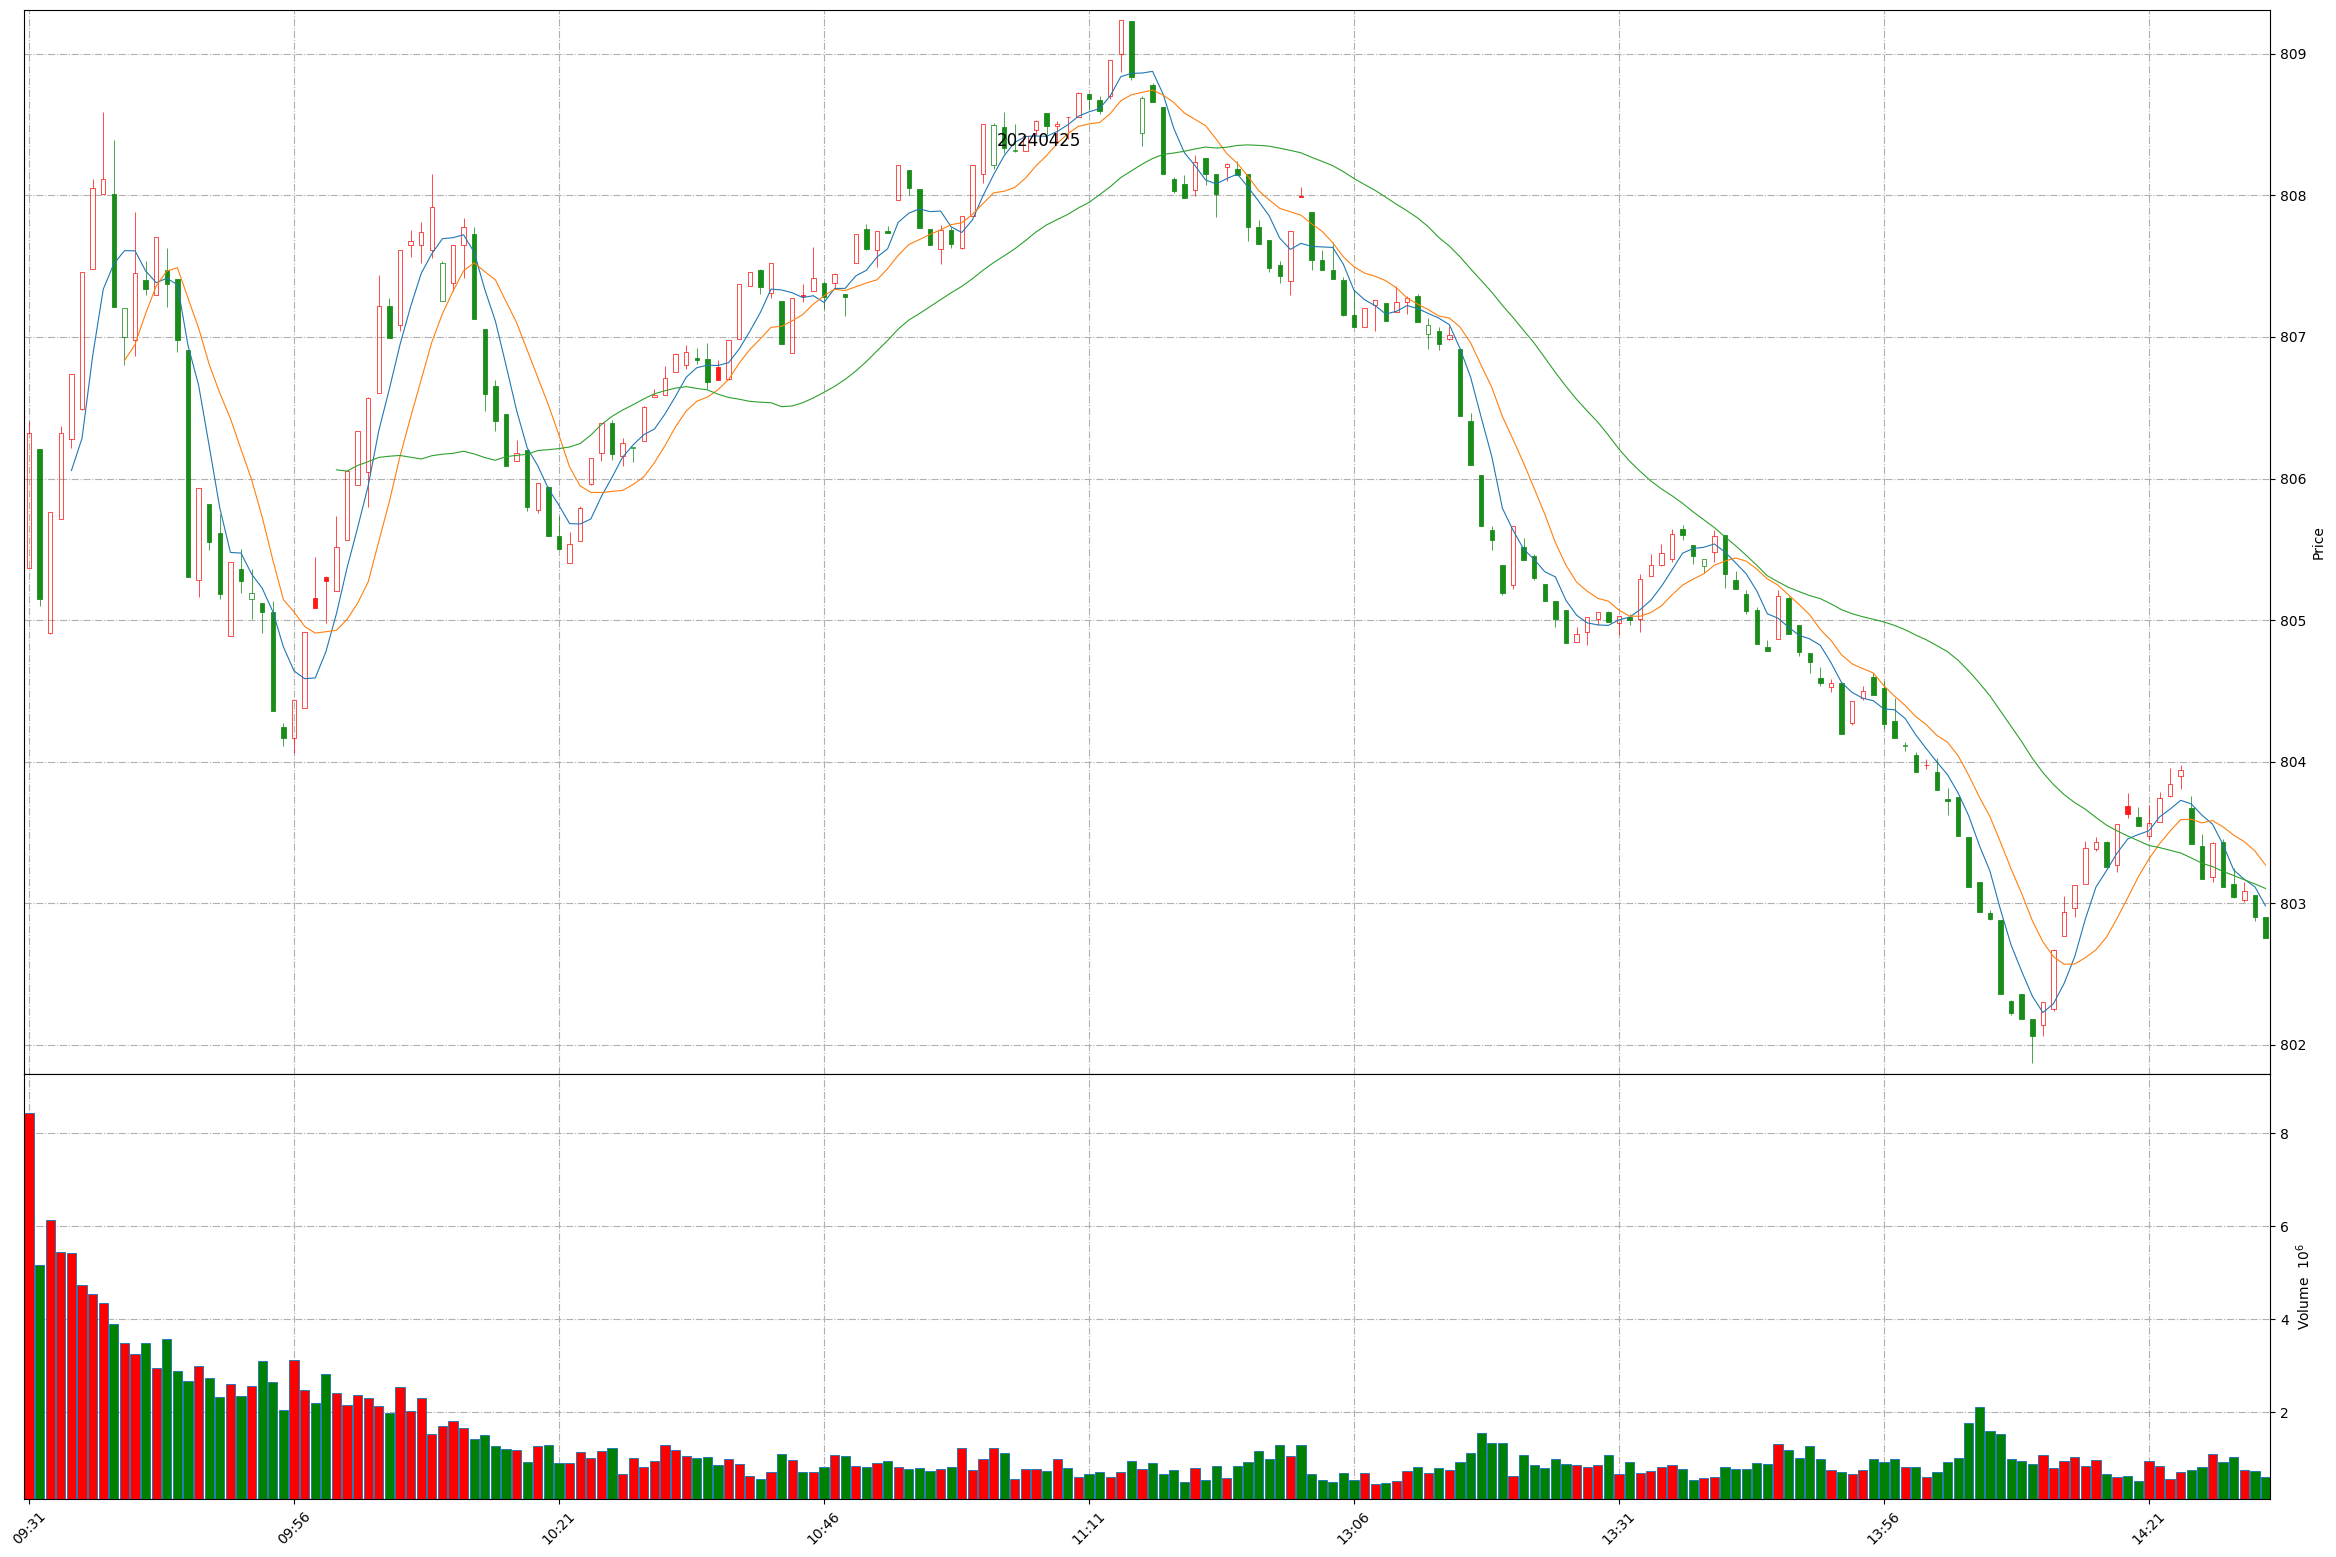
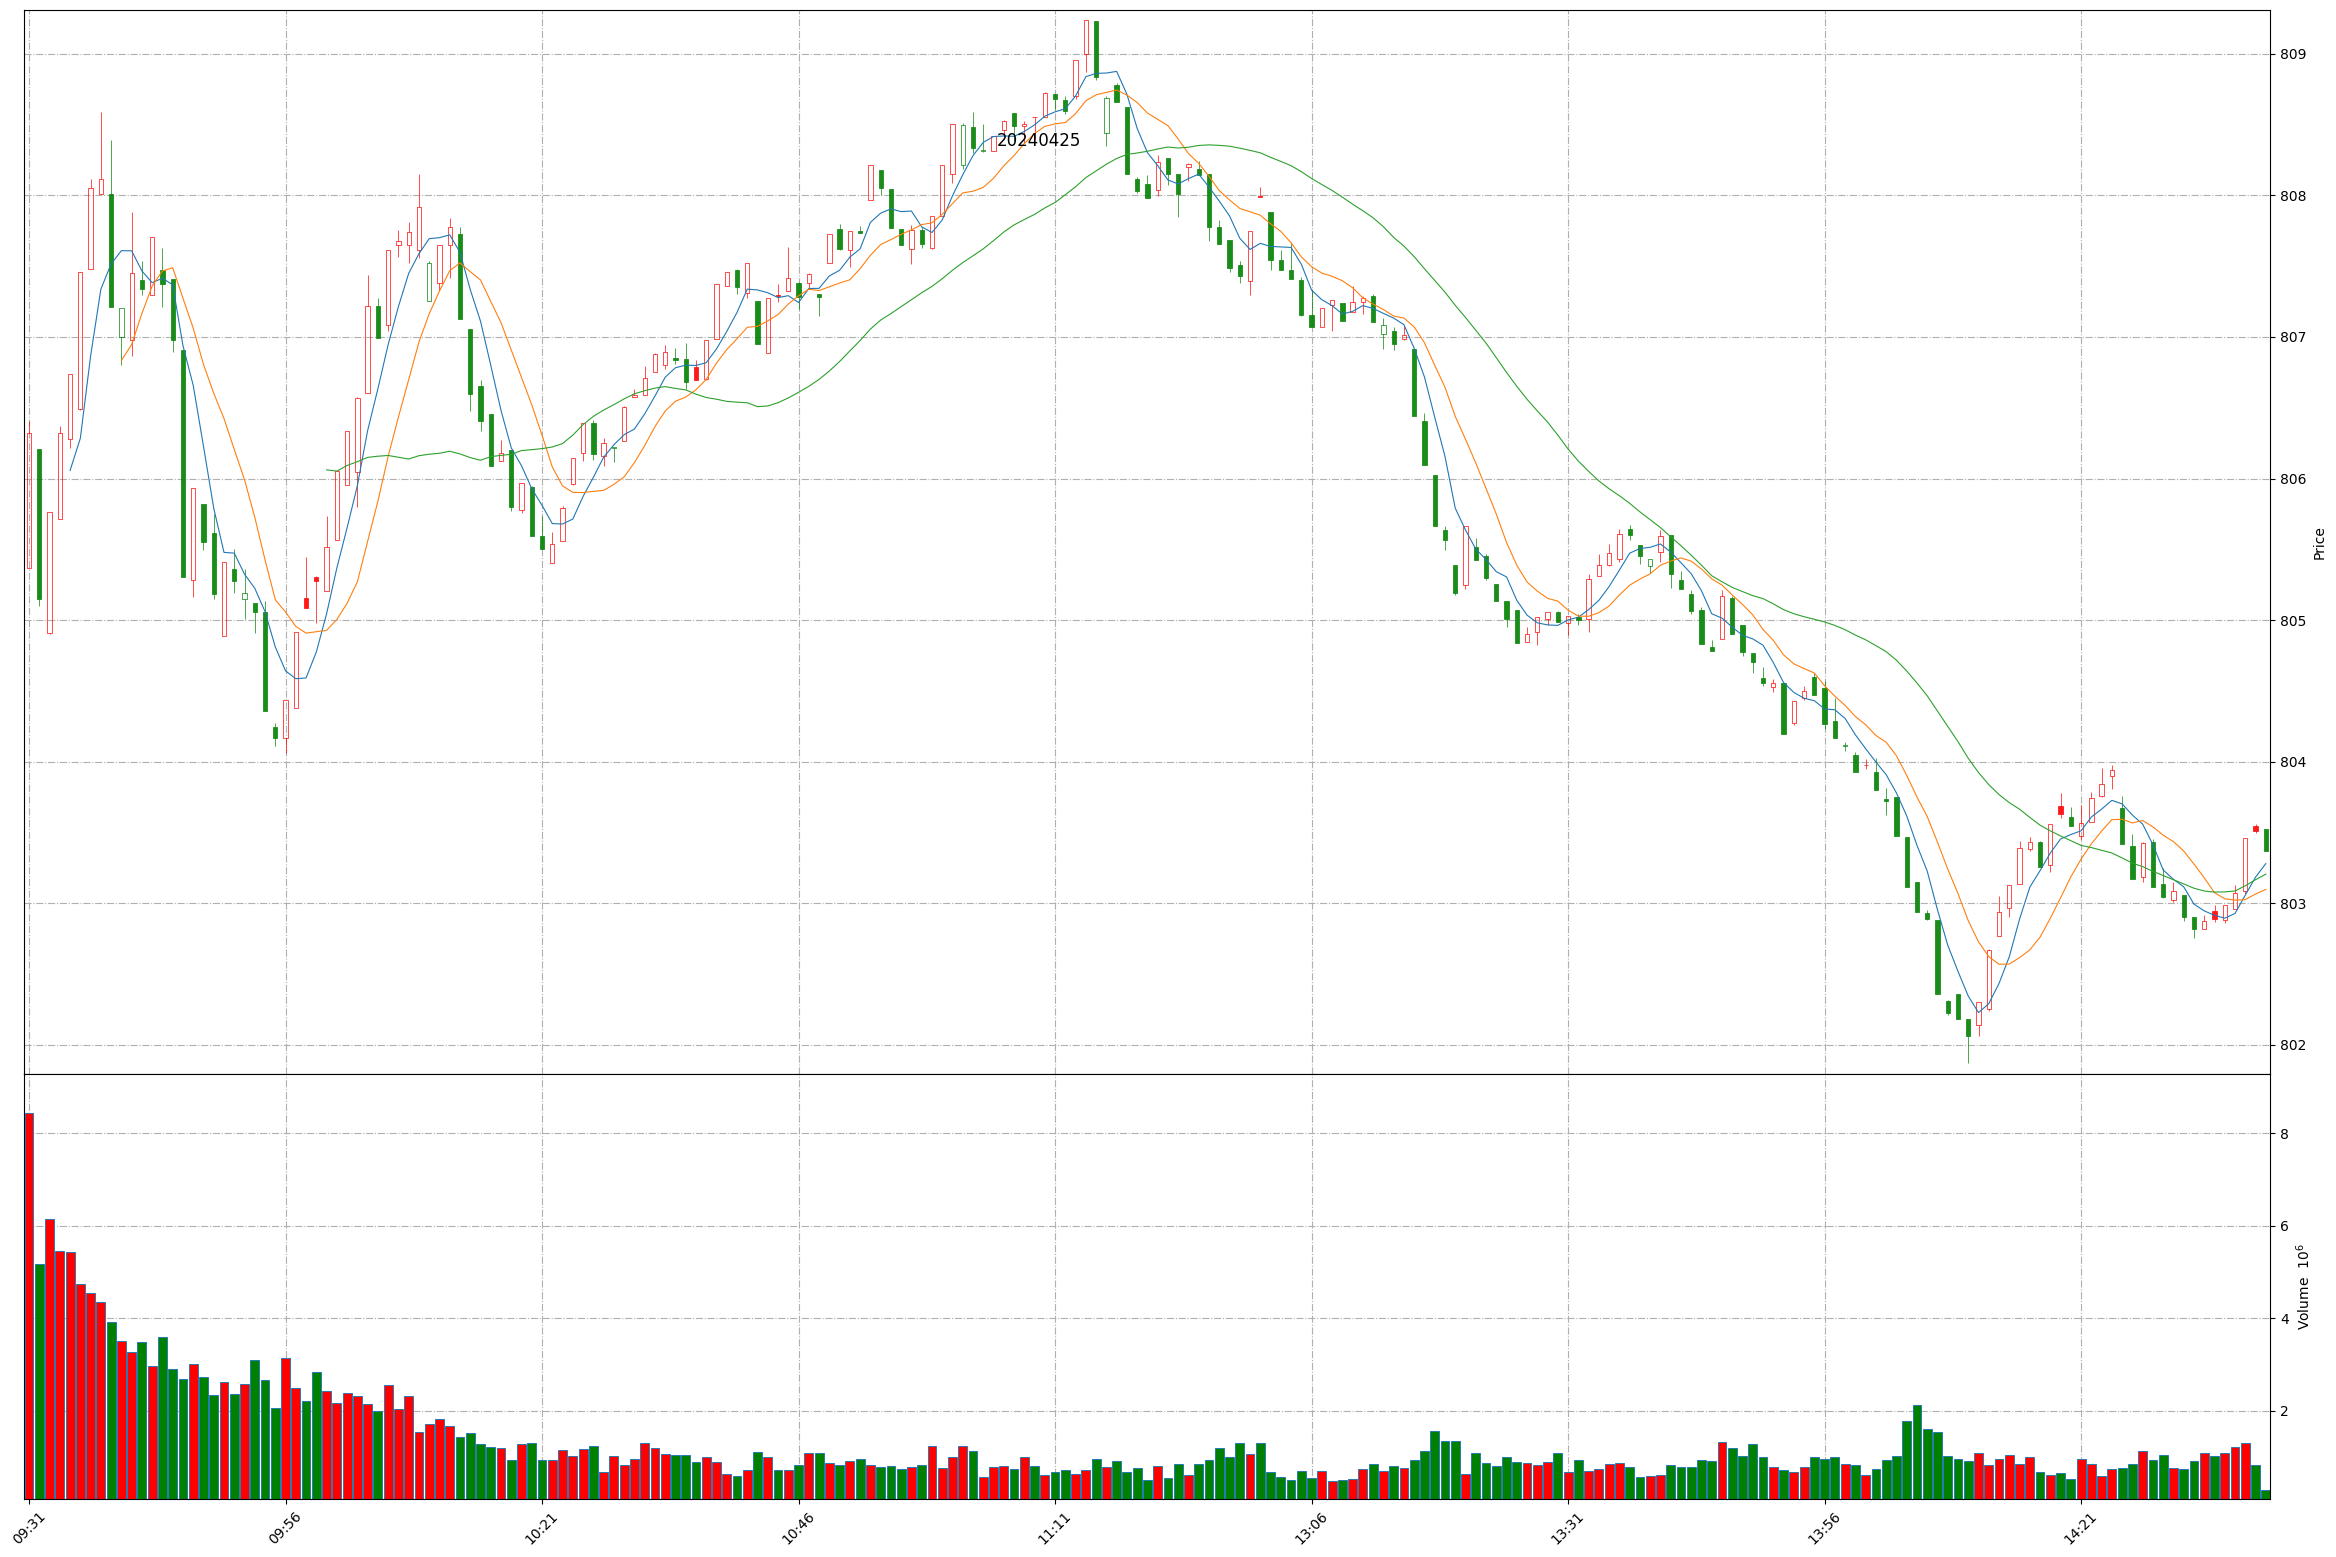
Github action update at 2024-04-25 14:38:27.

Changed region(s): [[0.1562, 0.0308, 0.9688, 0.6474], [0.0, 0.8015, 0.9688, 0.9865], [0.0312, 0.1233, 0.1562, 0.4624]]

diff --git a/README.md b/README.md
@@ -1,11 +1,11 @@
 
 # Daily-A-share-market-quotes 每日 A 股指数（5min 更新）- 20240425
 
-### 上证指数 20240425 14:31
+### 上证指数 20240425 14:38
 ![](./fig/2024/4/20240425-sh000001.png)
 
-### 深证成指 20240425 14:31
+### 深证成指 20240425 14:38
 ![](./fig/2024/4/20240425-sz399001.png)
 
-### 北证50 20240425 14:31
+### 北证50 20240425 14:38
 ![](./fig/2024/4/20240425-bj899050.png)
